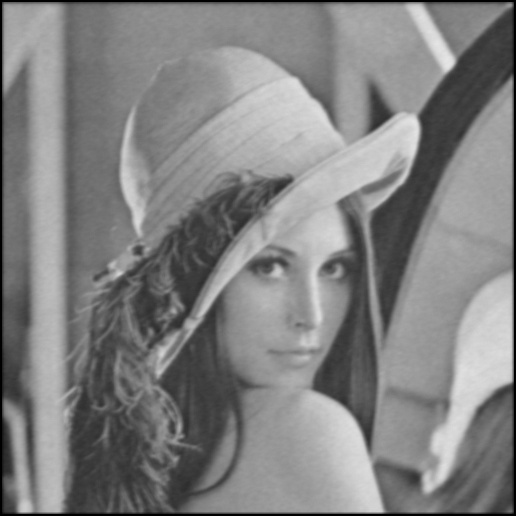
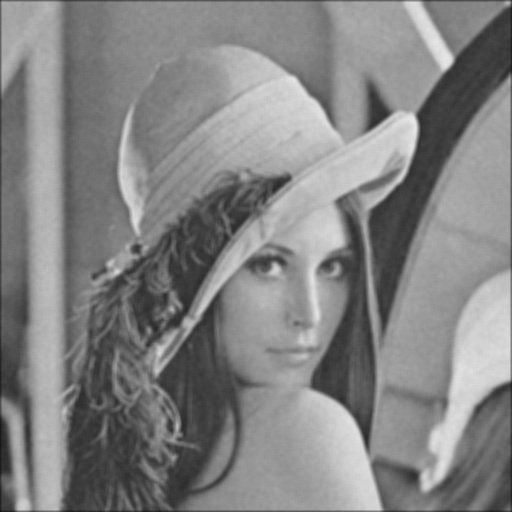
Finished part 1 and also commented

diff --git a/spatial_filtering/filtering.py b/spatial_filtering/filtering.py
@@ -1,3 +1,4 @@
+from unittest import result
 import numpy as np
 import math
 from cmath import pi
@@ -11,7 +12,7 @@ class Filtering:
         """Initialzes/Computes and returns a 5X5 Gaussian filter"""
         local_img = self.image
         filter = np.zeros((5, 5))
-        sigma = 10
+        sigma = 6
         sum = 0
         
         for x in range(0, filter.shape[0]):
@@ -26,9 +27,9 @@ class Filtering:
 
     def get_laplacian_filter(self):
         """Initialzes and returns a 3X3 Laplacian filter"""
-        filter = np.matrix([[-1, -1, -1],
-                            [-1, 8, -1],
-                            [-1, -1, -1]])
+        filter = np.matrix([[0, -1, 0],
+                            [-1, 4, -1],
+                            [0, -1, 0]])
         return filter
 
     def filter(self, filter_name):
@@ -64,10 +65,11 @@ class Filtering:
                 for y in range(0, local_img.shape[1]):
                     padded_img[x + 2, y + 2] = local_img[x, y]
             
+            result_img = padded_img.copy()
             #convolution
             for x in range(0, padded_img.shape[0] - 4):
                 for y in range(0, padded_img.shape[1] - 4):
-                    padded_img[x + 2, y + 2] = ( padded_img[x, y]*filter[0, 0] + padded_img[x, y+1]*filter[0,1]
+                    result_img[x + 2, y + 2] = ( padded_img[x, y]*filter[0, 0] + padded_img[x, y+1]*filter[0,1]
                                             +  padded_img[x, y+2]*filter[0,2] + padded_img[x, y+3]*filter[0,3]
                                             +  padded_img[x, y+4]*filter[0,4] + padded_img[x+1,y]*filter[1,0]
                                             +  padded_img[x+1, y+1]*filter[1,1] + padded_img[x+1, y+2]*filter[1,2]
@@ -80,8 +82,18 @@ class Filtering:
                                             +  padded_img[x+4, y]*filter[4,0] + padded_img[x+4, y+1]*filter[4,1]
                                             +  padded_img[x+4, y+2]*filter[4,2] + padded_img[x+4, y+3]*filter[4,3]
                                             +  padded_img[x+4, y+4]*filter[4,4] ) *(1/np.sum(filter))
-                            
-            return(padded_img)
+
+            #Deleting padded zeros from final picture
+            result_img = np.delete(result_img, result_img.shape[0] - 1, 0)
+            result_img = np.delete(result_img, result_img.shape[1] - 1, 1)
+            result_img = np.delete(result_img, result_img.shape[0] - 1, 0)
+            result_img = np.delete(result_img, result_img.shape[1] - 1, 1)
+            result_img = np.delete(result_img, 0, 0)
+            result_img = np.delete(result_img, 0, 1)   
+            result_img = np.delete(result_img, 0, 0)
+            result_img = np.delete(result_img, 0, 1)   
+
+            return(result_img)
 
             
         elif(filter_name == "laplacian"):
@@ -110,19 +122,27 @@ class Filtering:
                 for y in range(0, local_img.shape[1]):
                     padded_img[x + 1, y + 1] = local_img[x, y]
             
+            result_img = padded_img.copy()
             #convolution
             for x in range(0, padded_img.shape[0] - 2):
                 for y in range(0, padded_img.shape[1] - 2):
-                    temp = 1*( padded_img[x, y]*filter[0, 0] + padded_img[x, y+1]*filter[0,1]
-                                            +  padded_img[x, y+2]*filter[0,2] + padded_img[x+1,y]*filter[1,0]
-                                            +  padded_img[x+1, y+1]*filter[1,1] + padded_img[x+1, y+2]*filter[1,2]
-                                            +  padded_img[x+2, y]*filter[2,0] + padded_img[x+2, y+1]*filter[2,1]
-                                            +  padded_img[x+2, y+2]*filter[2,2] )
+                    temp = ( padded_img[x, y]*filter[0, 0] + padded_img[x, y+1]*filter[0,1]
+                                +  padded_img[x, y+2]*filter[0,2] + padded_img[x+1,y]*filter[1,0]
+                                +  padded_img[x+1, y+1]*filter[1,1] + padded_img[x+1, y+2]*filter[1,2]
+                                +  padded_img[x+2, y]*filter[2,0] + padded_img[x+2, y+1]*filter[2,1]
+                                +  padded_img[x+2, y+2]*filter[2,2] )
                     
-                    if(temp >= 255):
-                        padded_img[x + 1, y + 1] = 255
-                    elif(temp <= 0):
-                        padded_img[x + 1, y + 1] = 0
-            return(padded_img)
+                    if(temp <= 0):
+                        result_img[x + 1, y + 1] = 0
+                    else:
+                        result_img[x + 1, y + 1] = temp
+            
+            #Deleting padded zeros from final picture
+            result_img = np.delete(result_img, result_img.shape[0] - 1, 0)
+            result_img = np.delete(result_img, result_img.shape[1] - 1, 1)
+            result_img = np.delete(result_img, 0, 0)
+            result_img = np.delete(result_img, 0, 1)
+
+            return(result_img)
         return self.image
 

diff --git a/frequency_filtering/filtering.py b/frequency_filtering/filtering.py
@@ -1,9 +1,10 @@
 # For this part of the assignment, You can use inbuilt functions to compute the fourier transform
 # You are welcome to use fft that are available in numpy and opencv
 
+from unittest import result
 import numpy as np
-
-
+import cv2
+import matplotlib.pyplot as plt
 class Filtering:
 
     def __init__(self, image):
@@ -20,8 +21,12 @@ class Filtering:
         shape: the shape of the mask to be generated
         rtype: a 2d numpy array with size of shape
         """
-
-        return np.zeros(shape)
+        filter = np.ones(shape)
+        filter[220:240, 285:305] = 0
+        filter[265:275, 275:285] = 0
+        filter[275:295, 205:225] = 0
+        filter[235:255, 225:245] = 0
+        return filter
 
     def post_process_image(self, image):
         """Post processing to display DFTs and IDFTs
@@ -35,8 +40,18 @@ class Filtering:
         3. You can take negative (255 - fsimage)
         4. etc.
         """
+        magnitude = np.abs(image)
+        result_img = np.log(magnitude)
+        stretch_img = result_img.copy()
 
-        return image
+        min = np.amin(result_img)
+        max = np.amax(result_img)
+        
+        for x in range(0, result_img.shape[0]):
+            for y in range(0, result_img.shape[1]):
+                result_img[x, y] = int((254/(max - min)) * (result_img[x, y] - min) + 0.5)
+
+        return result_img
 
     def filter(self):
         """Performs frequency filtering on an input image
@@ -56,5 +71,29 @@ class Filtering:
         Note: You do not have to do zero padding as discussed in class, the inbuilt functions takes care of that
         filtered image, magnitude of frequency_filtering, magnitude of filtered frequency_filtering: Make sure all images being returned have grey scale full contrast stretch and dtype=uint8
         """
+        local_img = self.image.copy()
+        
+        fft_img = np.fft.ifftshift(np.fft.fft2(local_img))
 
-        return [self.image, self.image, self.image]
+        result_filtered = fft_img.copy()
+        result_filtered_display = self.post_process_image(fft_img)
+        filter = self.get_mask(local_img.shape)
+
+        for x in range(0, result_filtered.shape[0]):
+            for y in range(0, result_filtered.shape[1]):
+                result_filtered[x, y] = fft_img[x, y] * filter[x, y]
+                result_filtered_display[x, y] = result_filtered_display[x, y] * filter[x, y]
+        
+        final_img = np.fft.ifft2(np.fft.ifftshift(result_filtered))
+
+        test = np.abs(final_img)    
+
+        min = np.amin(test)
+        max = np.amax(test)
+        
+        print(test.real)
+        for x in range(0, test.shape[0]):
+            for y in range(0, test.shape[1]):
+                test[x, y] = int((254/(max - min)) * (test[x, y] - min) + 0.5)
+        
+        return [self.post_process_image(fft_img), result_filtered_display, test ]

diff --git a/frequency_filtering/dft.py b/frequency_filtering/dft.py
@@ -13,14 +13,15 @@ class Dft:
         takes as input:
         matrix: a 2d matrix
         returns a complex matrix representing fourier transform"""
-        up = [5, 7]
-        down = [8, 3]
-        matrix = np.matrix([up, down])
-
+        #Create local copy of matrix and result matrix 
         local = matrix.copy()
         result = np.zeros(local.shape, dtype= np.complex_)
+
+        #sigma and N for calculations
         complex = 1j
         N = local.shape[0]
+
+        #FFT
         for u in range (0, result.shape[0]):
             for v in range (0, result.shape[1]):
                 for i in range (0, local.shape[0]):
@@ -35,10 +36,15 @@ class Dft:
         takes as input:
         matrix: a 2d matrix (DFT) usually complex
         returns a complex matrix representing the inverse fourier transform"""
+        #Get a local copy of matrix and result matrix
         local = matrix.copy()
-        complex = 1j
         result = np.zeros(local.shape, dtype= np.complex_)
+
+        #sigma and N for calculations
+        complex = 1j
         N = local.shape[0]
+
+        #IFFT process
         for i in range (0, result.shape[0]):
             for j in range (0, result.shape[1]):
                 for u in range (0, local.shape[0]):
@@ -51,7 +57,10 @@ class Dft:
         takes as input:
         matrix: a 2d matrix
         returns a matrix representing magnitude of the complex matrix"""
+        #Get a local copy of the matrix
         local = matrix.copy()
+
+        #Calculate magnitude matrix
         for num_1 in local:
             for num_2 in num_1:
                 temp = cmath.sqrt( (num_2.real)**2 + (num_2.imag)**2 )
